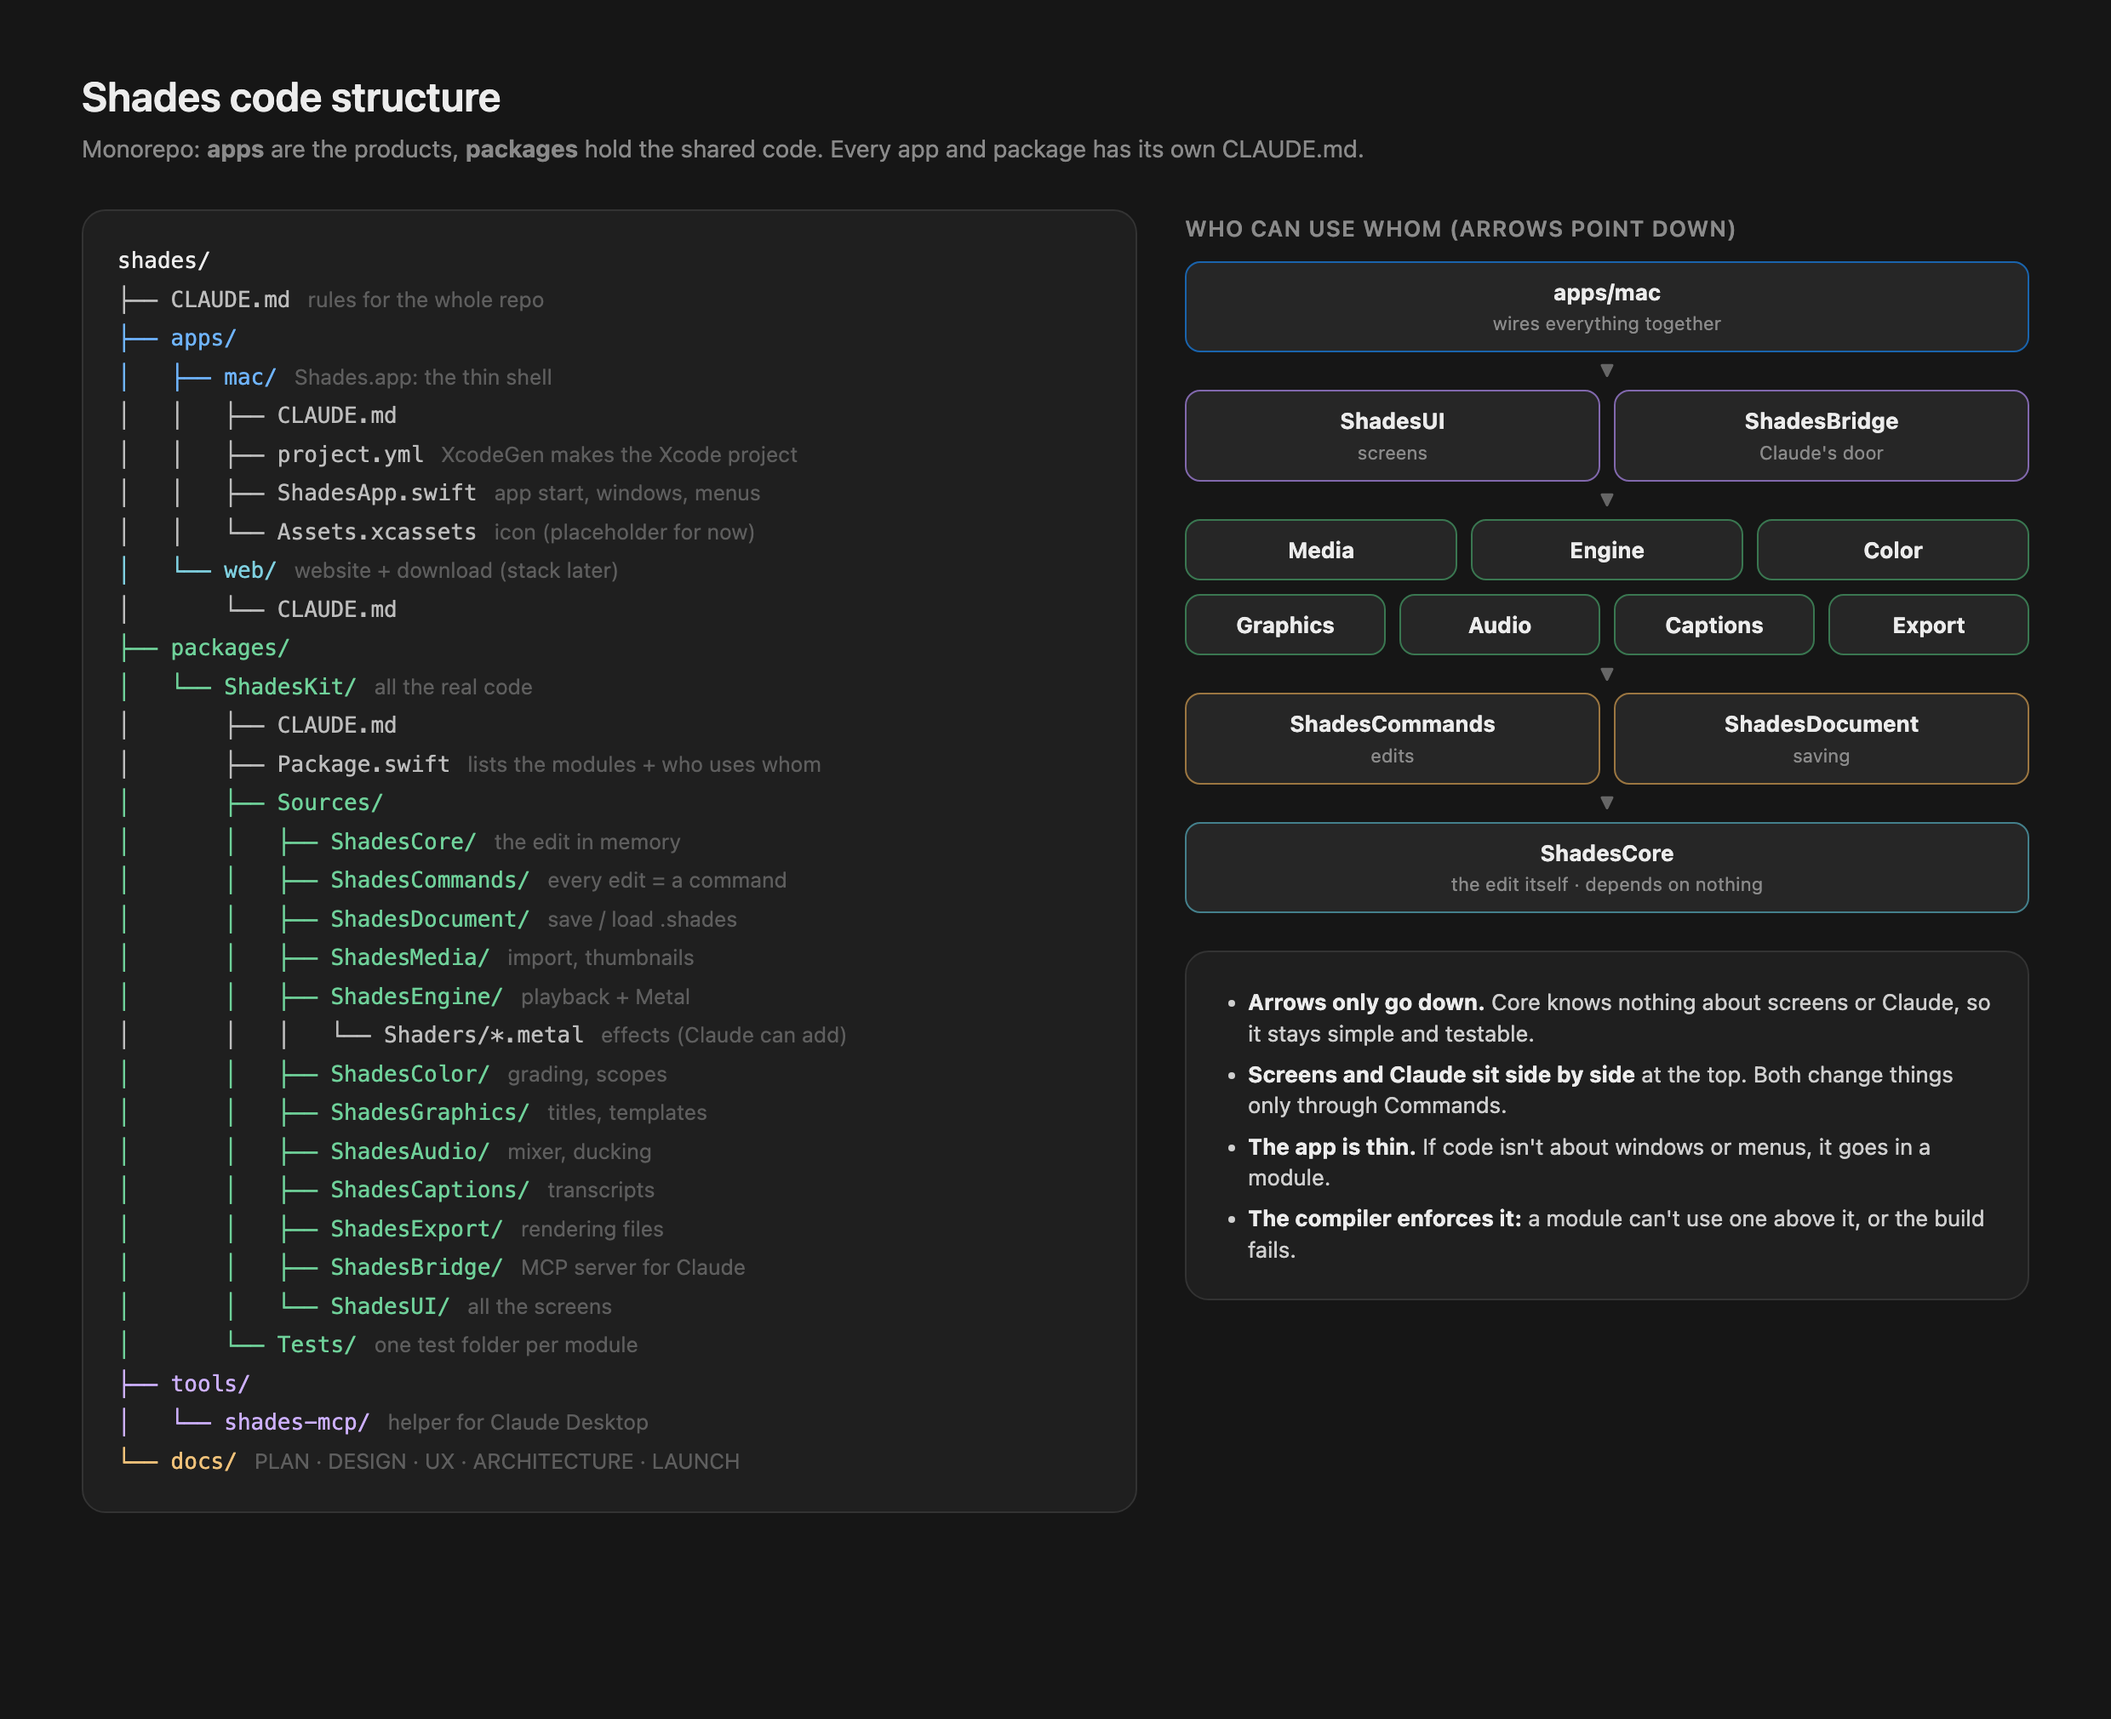
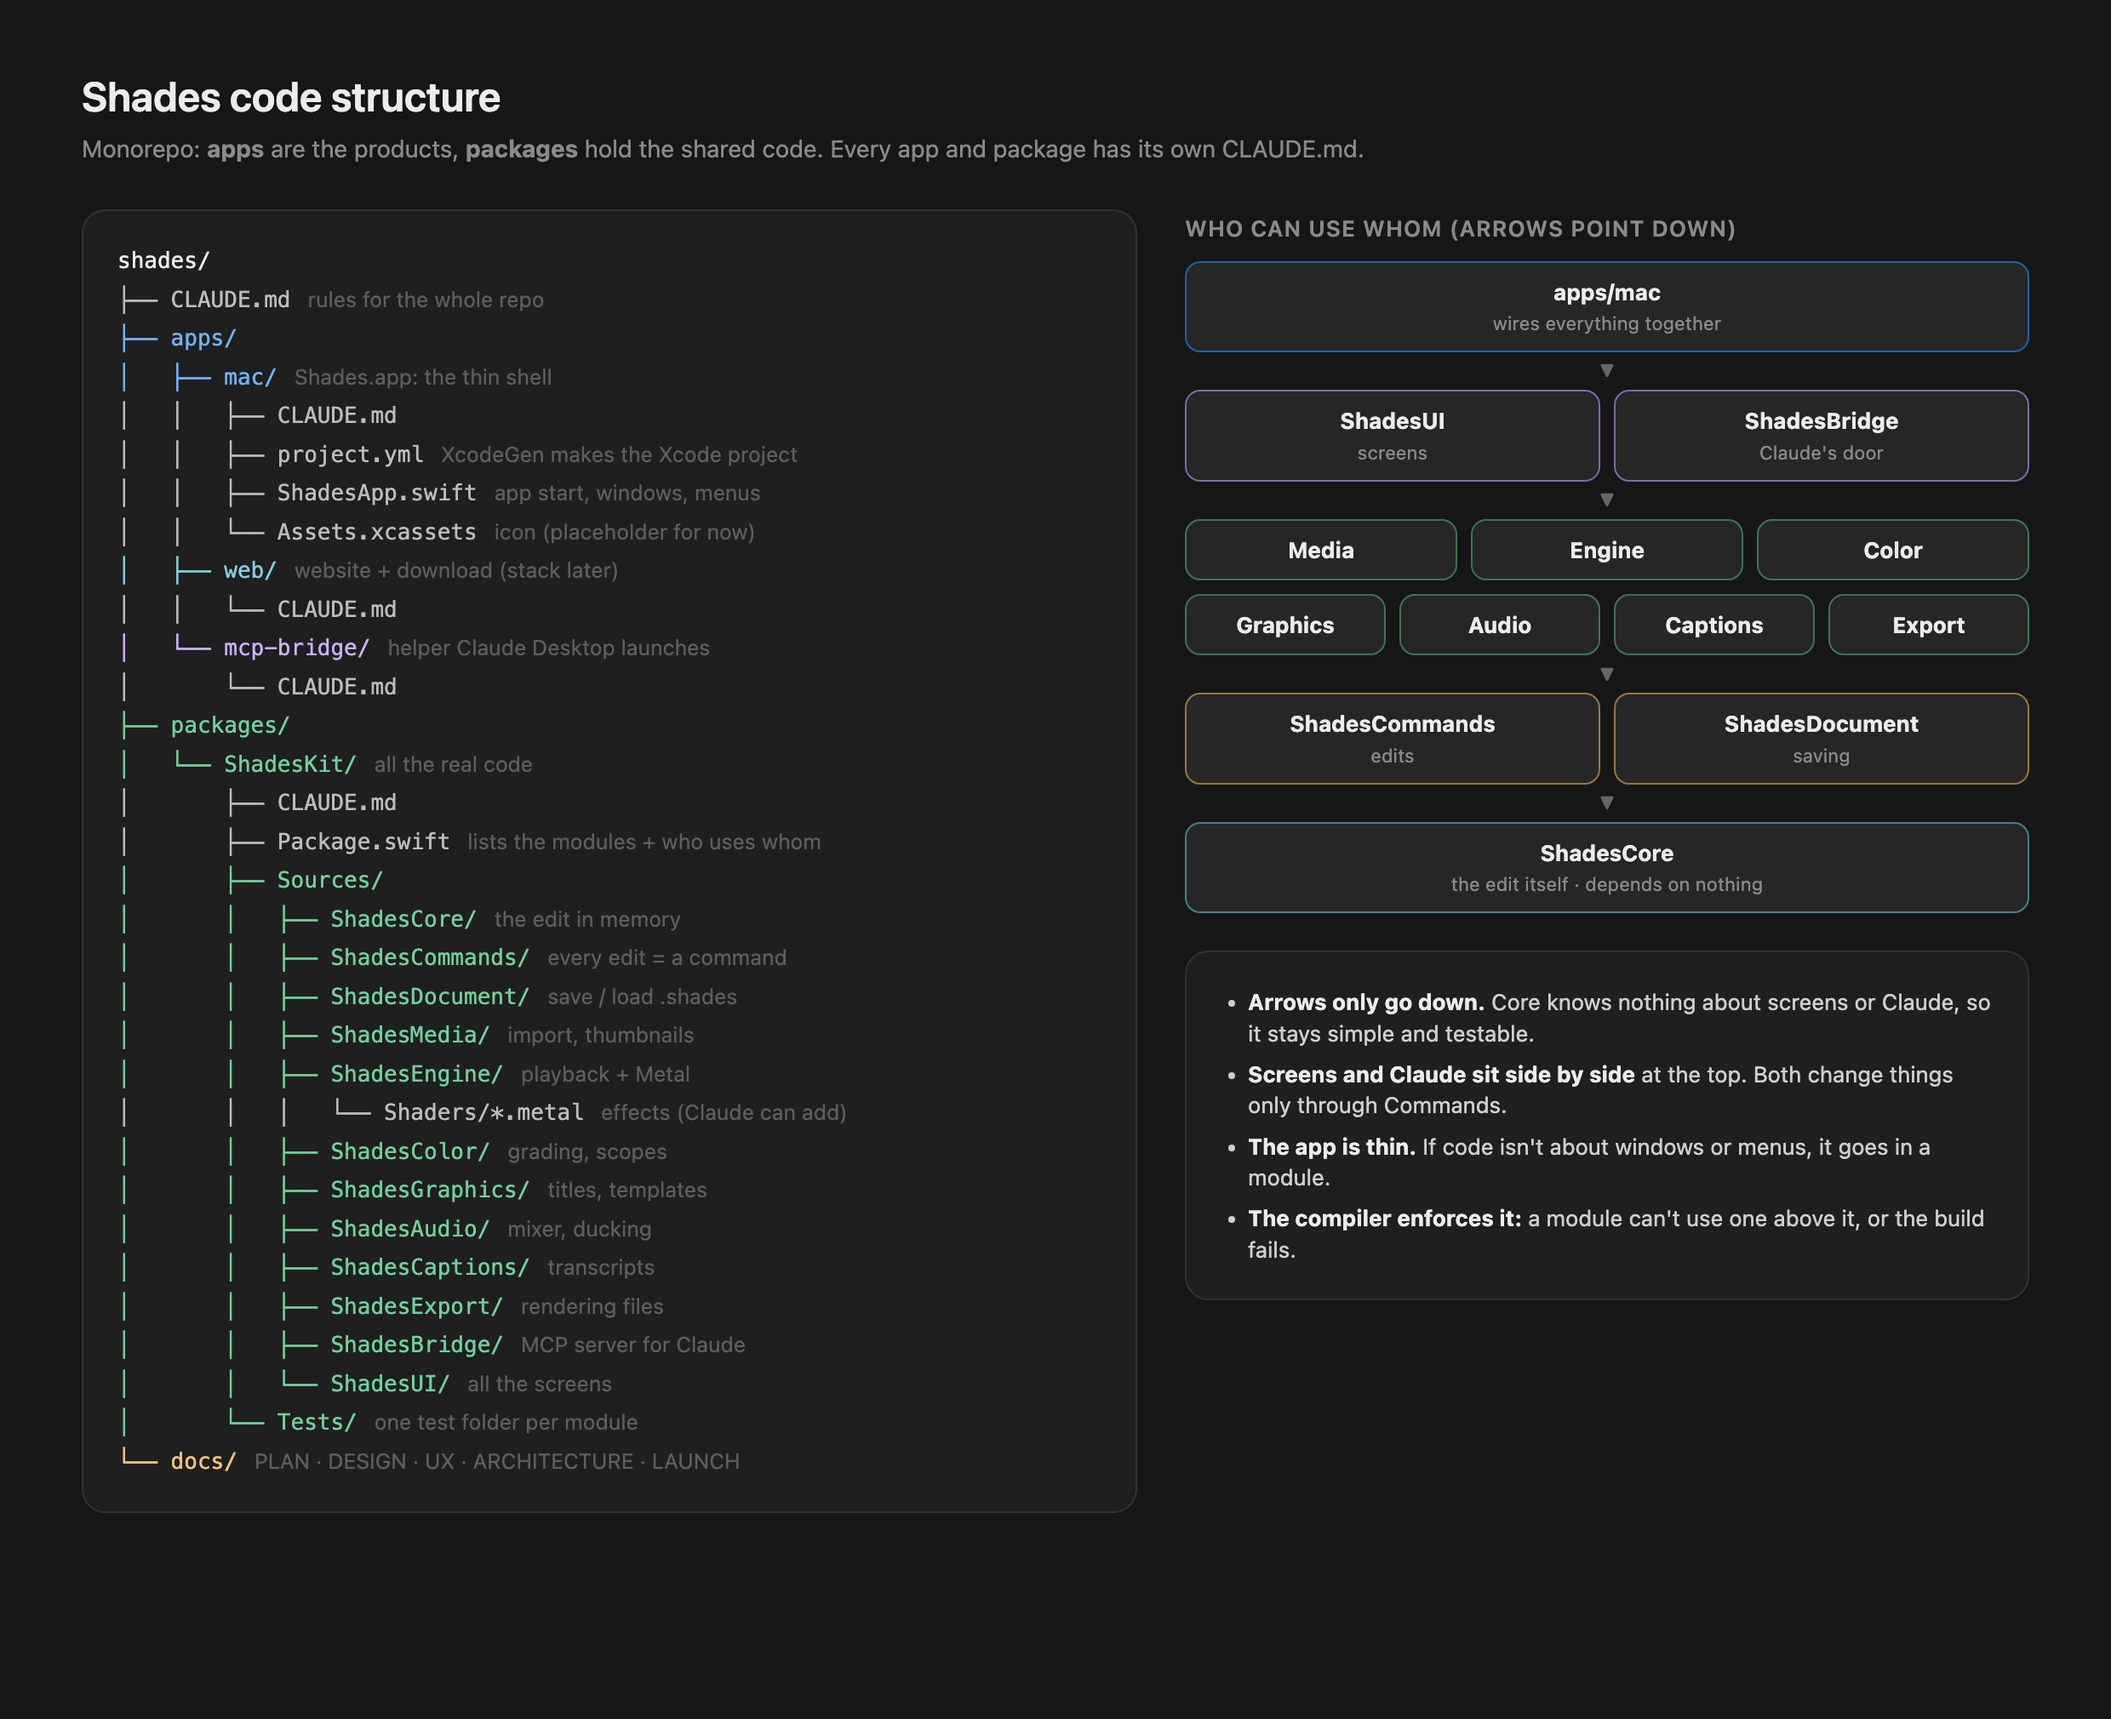
Move Claude Desktop helper from tools/ to apps/mcp-bridge (repo is apps + packages only)

Changed region(s): [[0.0621, 0.3743, 0.3726, 0.8421], [0.2794, 0.4678, 0.3415, 0.499]]

diff --git a/docs/design/code-structure.html b/docs/design/code-structure.html
@@ -41,7 +41,9 @@ h1{font-size:24px;font-weight:600}.sub{color:var(--dim);margin:4px 0 26px}
 <div class="l f"><span class="n">│   │   ├── project.yml</span><span class="c">XcodeGen makes the Xcode project</span></div>
 <div class="l f"><span class="n">│   │   ├── ShadesApp.swift</span><span class="c">app start, windows, menus</span></div>
 <div class="l f"><span class="n">│   │   └── Assets.xcassets</span><span class="c">icon (placeholder for now)</span></div>
-<div class="l web"><span class="n">│   └── web/</span><span class="c">website + download (stack later)</span></div>
+<div class="l web"><span class="n">│   ├── web/</span><span class="c">website + download (stack later)</span></div>
+<div class="l f"><span class="n">│   │   └── CLAUDE.md</span></div>
+<div class="l tool"><span class="n">│   └── mcp-bridge/</span><span class="c">helper Claude Desktop launches</span></div>
 <div class="l f"><span class="n">│       └── CLAUDE.md</span></div>
 <div class="l pkg"><span class="n">├── packages/</span></div>
 <div class="l pkg"><span class="n">│   └── ShadesKit/</span><span class="c">all the real code</span></div>
@@ -62,8 +64,6 @@ h1{font-size:24px;font-weight:600}.sub{color:var(--dim);margin:4px 0 26px}
 <div class="l pkg"><span class="n">│       │   ├── ShadesBridge/</span><span class="c">MCP server for Claude</span></div>
 <div class="l pkg"><span class="n">│       │   └── ShadesUI/</span><span class="c">all the screens</span></div>
 <div class="l pkg"><span class="n">│       └── Tests/</span><span class="c">one test folder per module</span></div>
-<div class="l tool"><span class="n">├── tools/</span></div>
-<div class="l tool"><span class="n">│   └── shades-mcp/</span><span class="c">helper for Claude Desktop</span></div>
 <div class="l doc"><span class="n">└── docs/</span><span class="c">PLAN · DESIGN · UX · ARCHITECTURE · LAUNCH</span></div>
 </div>
 

diff --git a/docs/design/architecture.html b/docs/design/architecture.html
@@ -95,7 +95,7 @@ h1{font-size:24px;font-weight:600}
   <div class="box"><h3>apps/mac</h3><p>Shades.app: thin shell, windows, menus</p></div>
   <div class="box"><h3>packages/ShadesKit</h3><p>every module above</p></div>
   <div class="box"><h3>apps/web</h3><p>website + direct download</p></div>
-  <div class="box"><h3>tools/shades-mcp</h3><p>shim for Claude Desktop</p></div>
+  <div class="box"><h3>apps/mcp-bridge</h3><p>helper Claude Desktop launches</p></div>
 </div>
 <div class="note">Monorepo layout · each app and package has its own CLAUDE.md</div>
 </body></html>

diff --git a/CLAUDE.md b/CLAUDE.md
@@ -1,6 +1,6 @@
 # shades
 
-Open-source, AI-native video editor for Mac. A monorepo: `apps/` holds the products, `packages/` holds shared code.
+Open-source, AI-native video editor for Mac. A monorepo with exactly two kinds of folders: `apps/` for anything that runs on its own (a program, a website, a server) and `packages/` for code that apps use. Nothing else at the top level besides `docs/`.
 
 ## Git workflow (always)
 - Keep the repo up to date both locally and on the remote (GitHub: `origin`).
@@ -11,6 +11,7 @@ Open-source, AI-native video editor for Mac. A monorepo: `apps/` holds the produ
 - This root file covers the whole repo. **Every app and package has its own `CLAUDE.md`** with what's specific to it:
   - `apps/mac/CLAUDE.md`: the Shades Mac app
   - `apps/web/CLAUDE.md`: the website
+  - `apps/mcp-bridge/CLAUDE.md`: the helper Claude Desktop launches
   - `packages/ShadesKit/CLAUDE.md`: the Swift modules
 - When you add a new app or package, create its `CLAUDE.md` in the same commit.
 - When you change how an app or package works (build commands, structure, rules), update its `CLAUDE.md` too.

diff --git a/docs/ARCHITECTURE.md b/docs/ARCHITECTURE.md
@@ -10,7 +10,8 @@ shades/
 ├── apps/
 │   ├── mac/                  Shades.app: a thin app target (entry point, windows, menus, assets)
 │   │   └── project.yml       XcodeGen spec; the .xcodeproj is generated, not committed
-│   └── web/                  the Shades website + download page (stack decided later)
+│   ├── web/                  the Shades website + download page (stack decided later)
+│   └── mcp-bridge/           small helper Claude Desktop launches; relays to Shades.app
 ├── packages/
 │   └── ShadesKit/            all real Mac code, as Swift Package modules
 │       ├── Package.swift
@@ -28,8 +29,6 @@ shades/
 │       │   ├── ShadesBridge/     MCP server: commands become Claude tools
 │       │   └── ShadesUI/         SwiftUI views (AppKit where SwiftUI is too slow)
 │       └── Tests/
-├── tools/
-│   └── shades-mcp/           small stdio shim so Claude Desktop can connect
 └── docs/
 ```
 

diff --git a/apps/mcp-bridge/CLAUDE.md b/apps/mcp-bridge/CLAUDE.md
@@ -1,0 +1,12 @@
+# apps/mcp-bridge: the Claude Desktop helper
+
+A tiny command-line program. **Claude Desktop launches it** (Claude Desktop talks to local MCP servers over stdio), and it relays every message to the MCP server running **inside Shades.app** over localhost. Root rules (git workflow etc.) in `/CLAUDE.md` still apply.
+
+## Why it's an app, not part of a package
+It's a separate program that runs on its own, so it lives in `apps/`. The real MCP server (`ShadesBridge`) is a package module, because it has to run inside Shades.app to see the open project, the selection and rendered frames.
+
+## Rules
+- Keep it dumb: forward messages both ways, with no editing logic. All tools live in `ShadesBridge`.
+- If Shades.app isn't running, answer with a clear "Open Shades first" error.
+- Claude Code doesn't need this helper; it connects to Shades.app's localhost server directly.
+- Swift, built as a small executable alongside the app (ships inside Shades.app so setup can point Claude Desktop at it).
